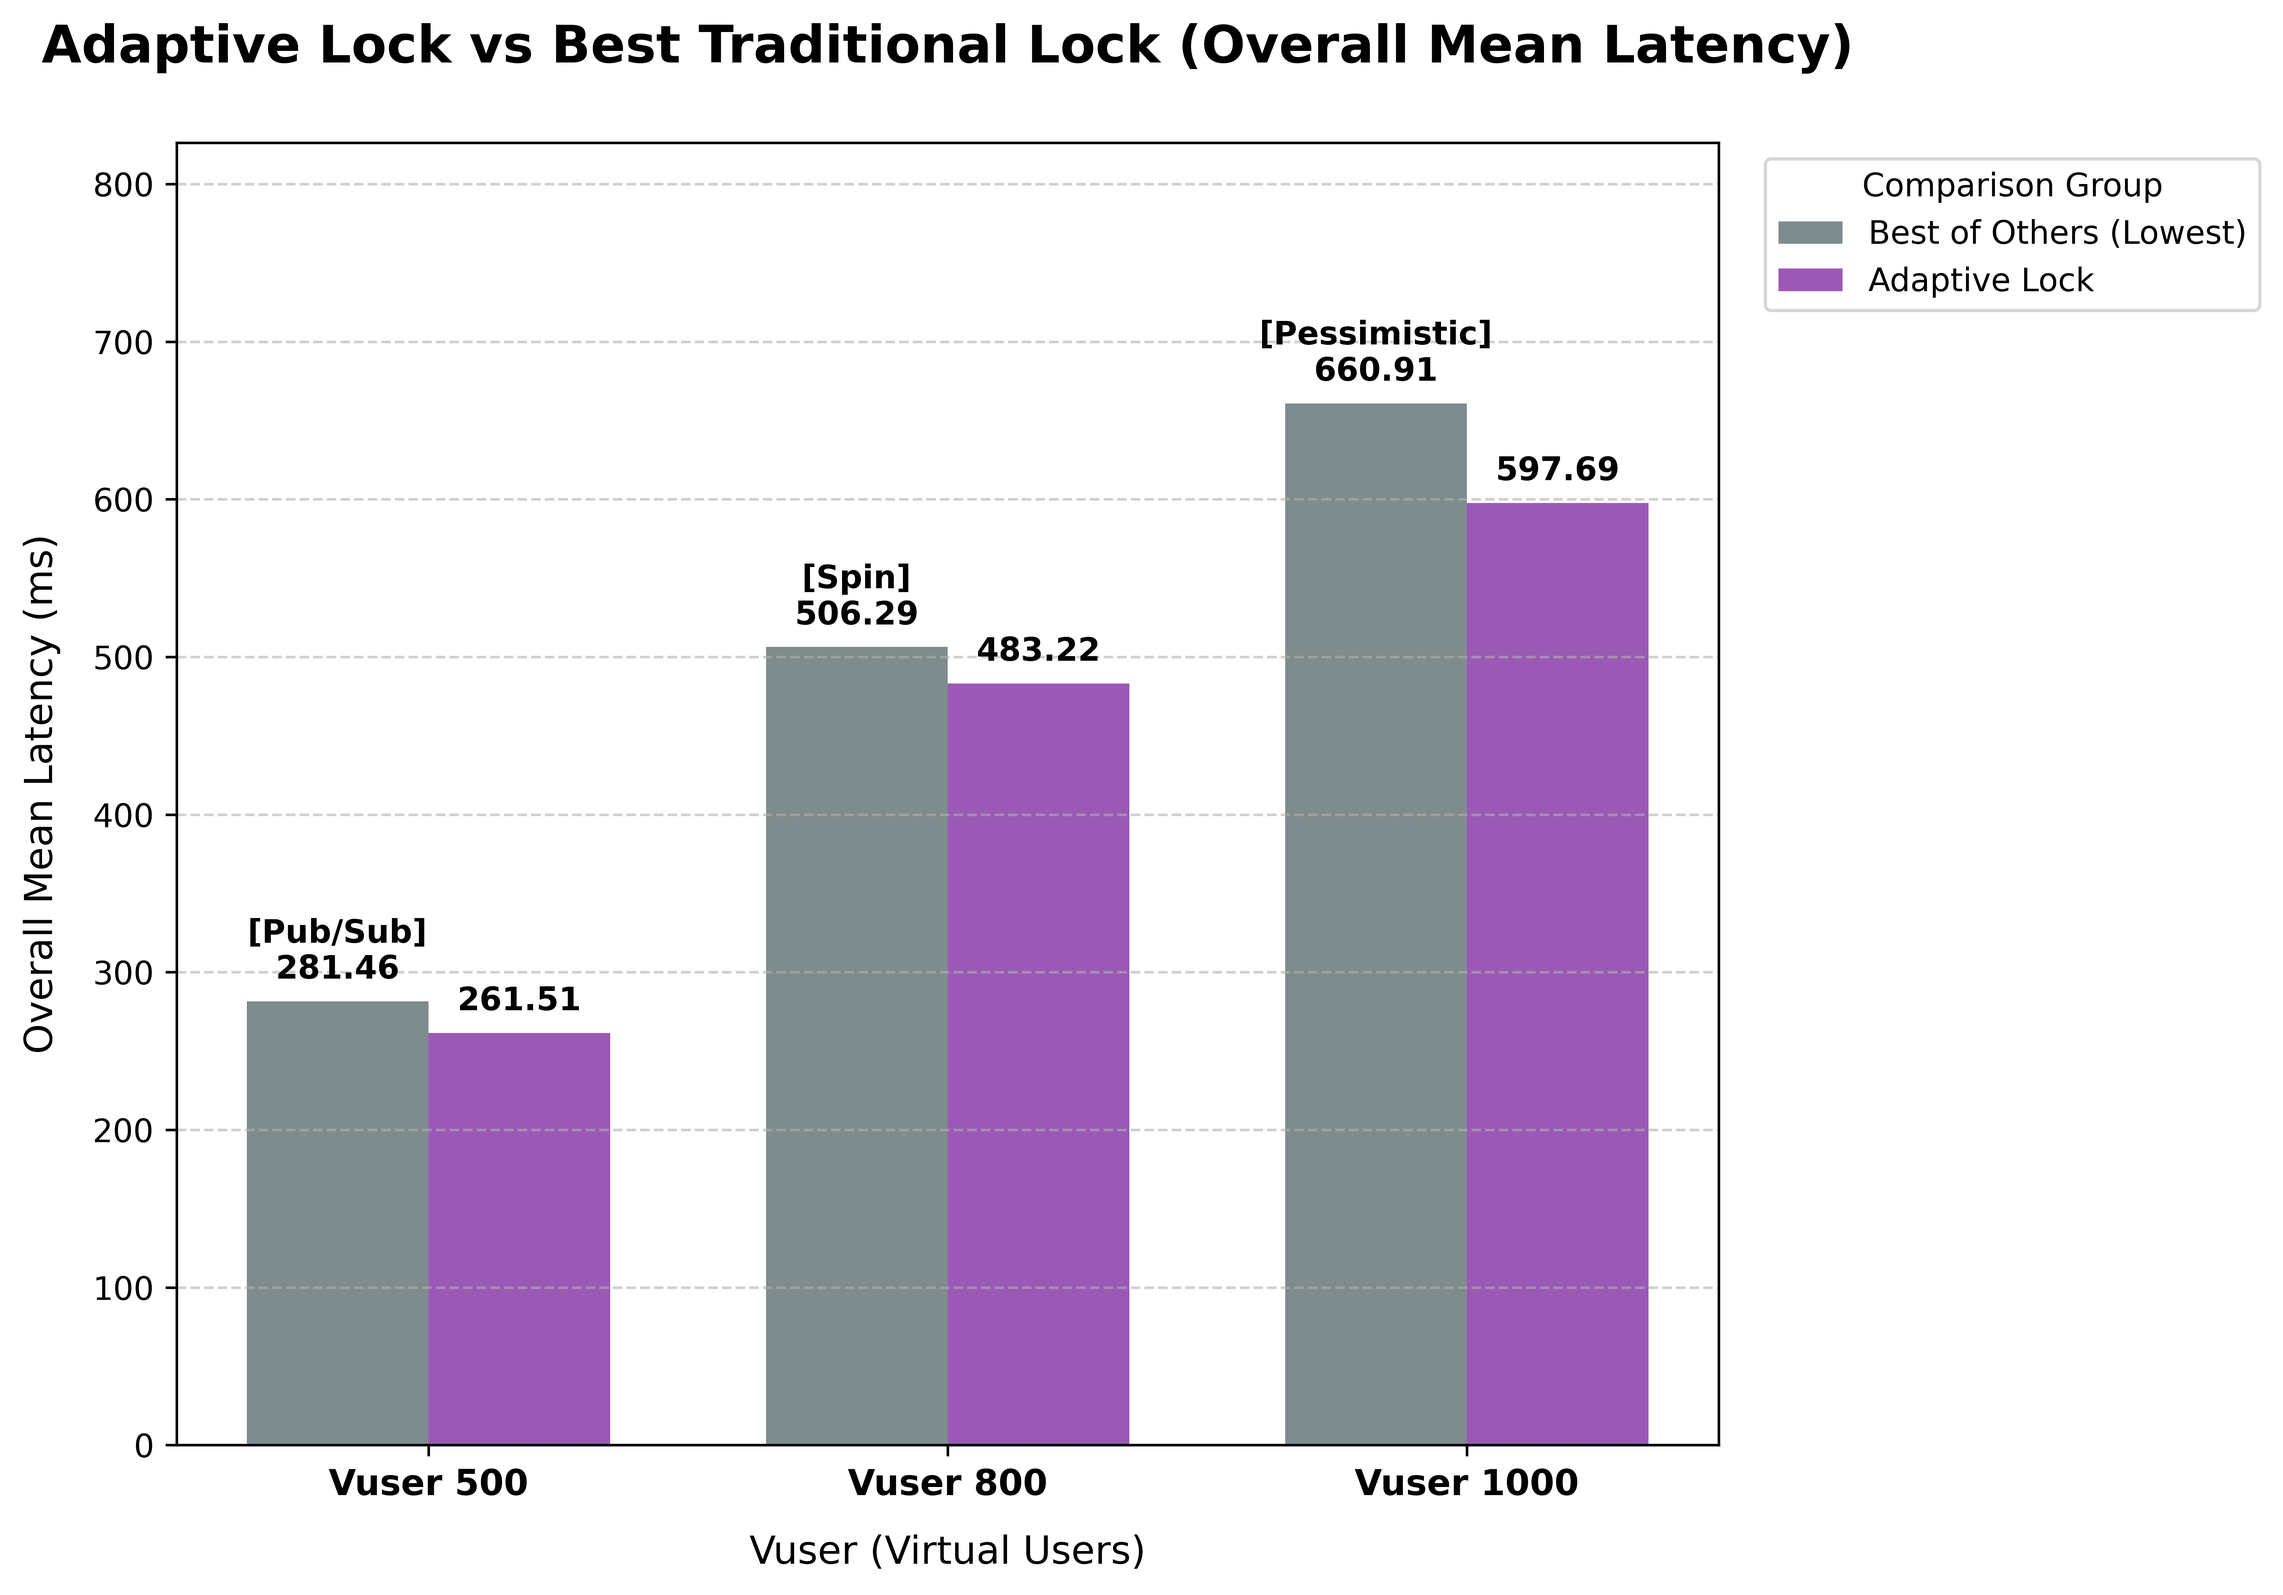
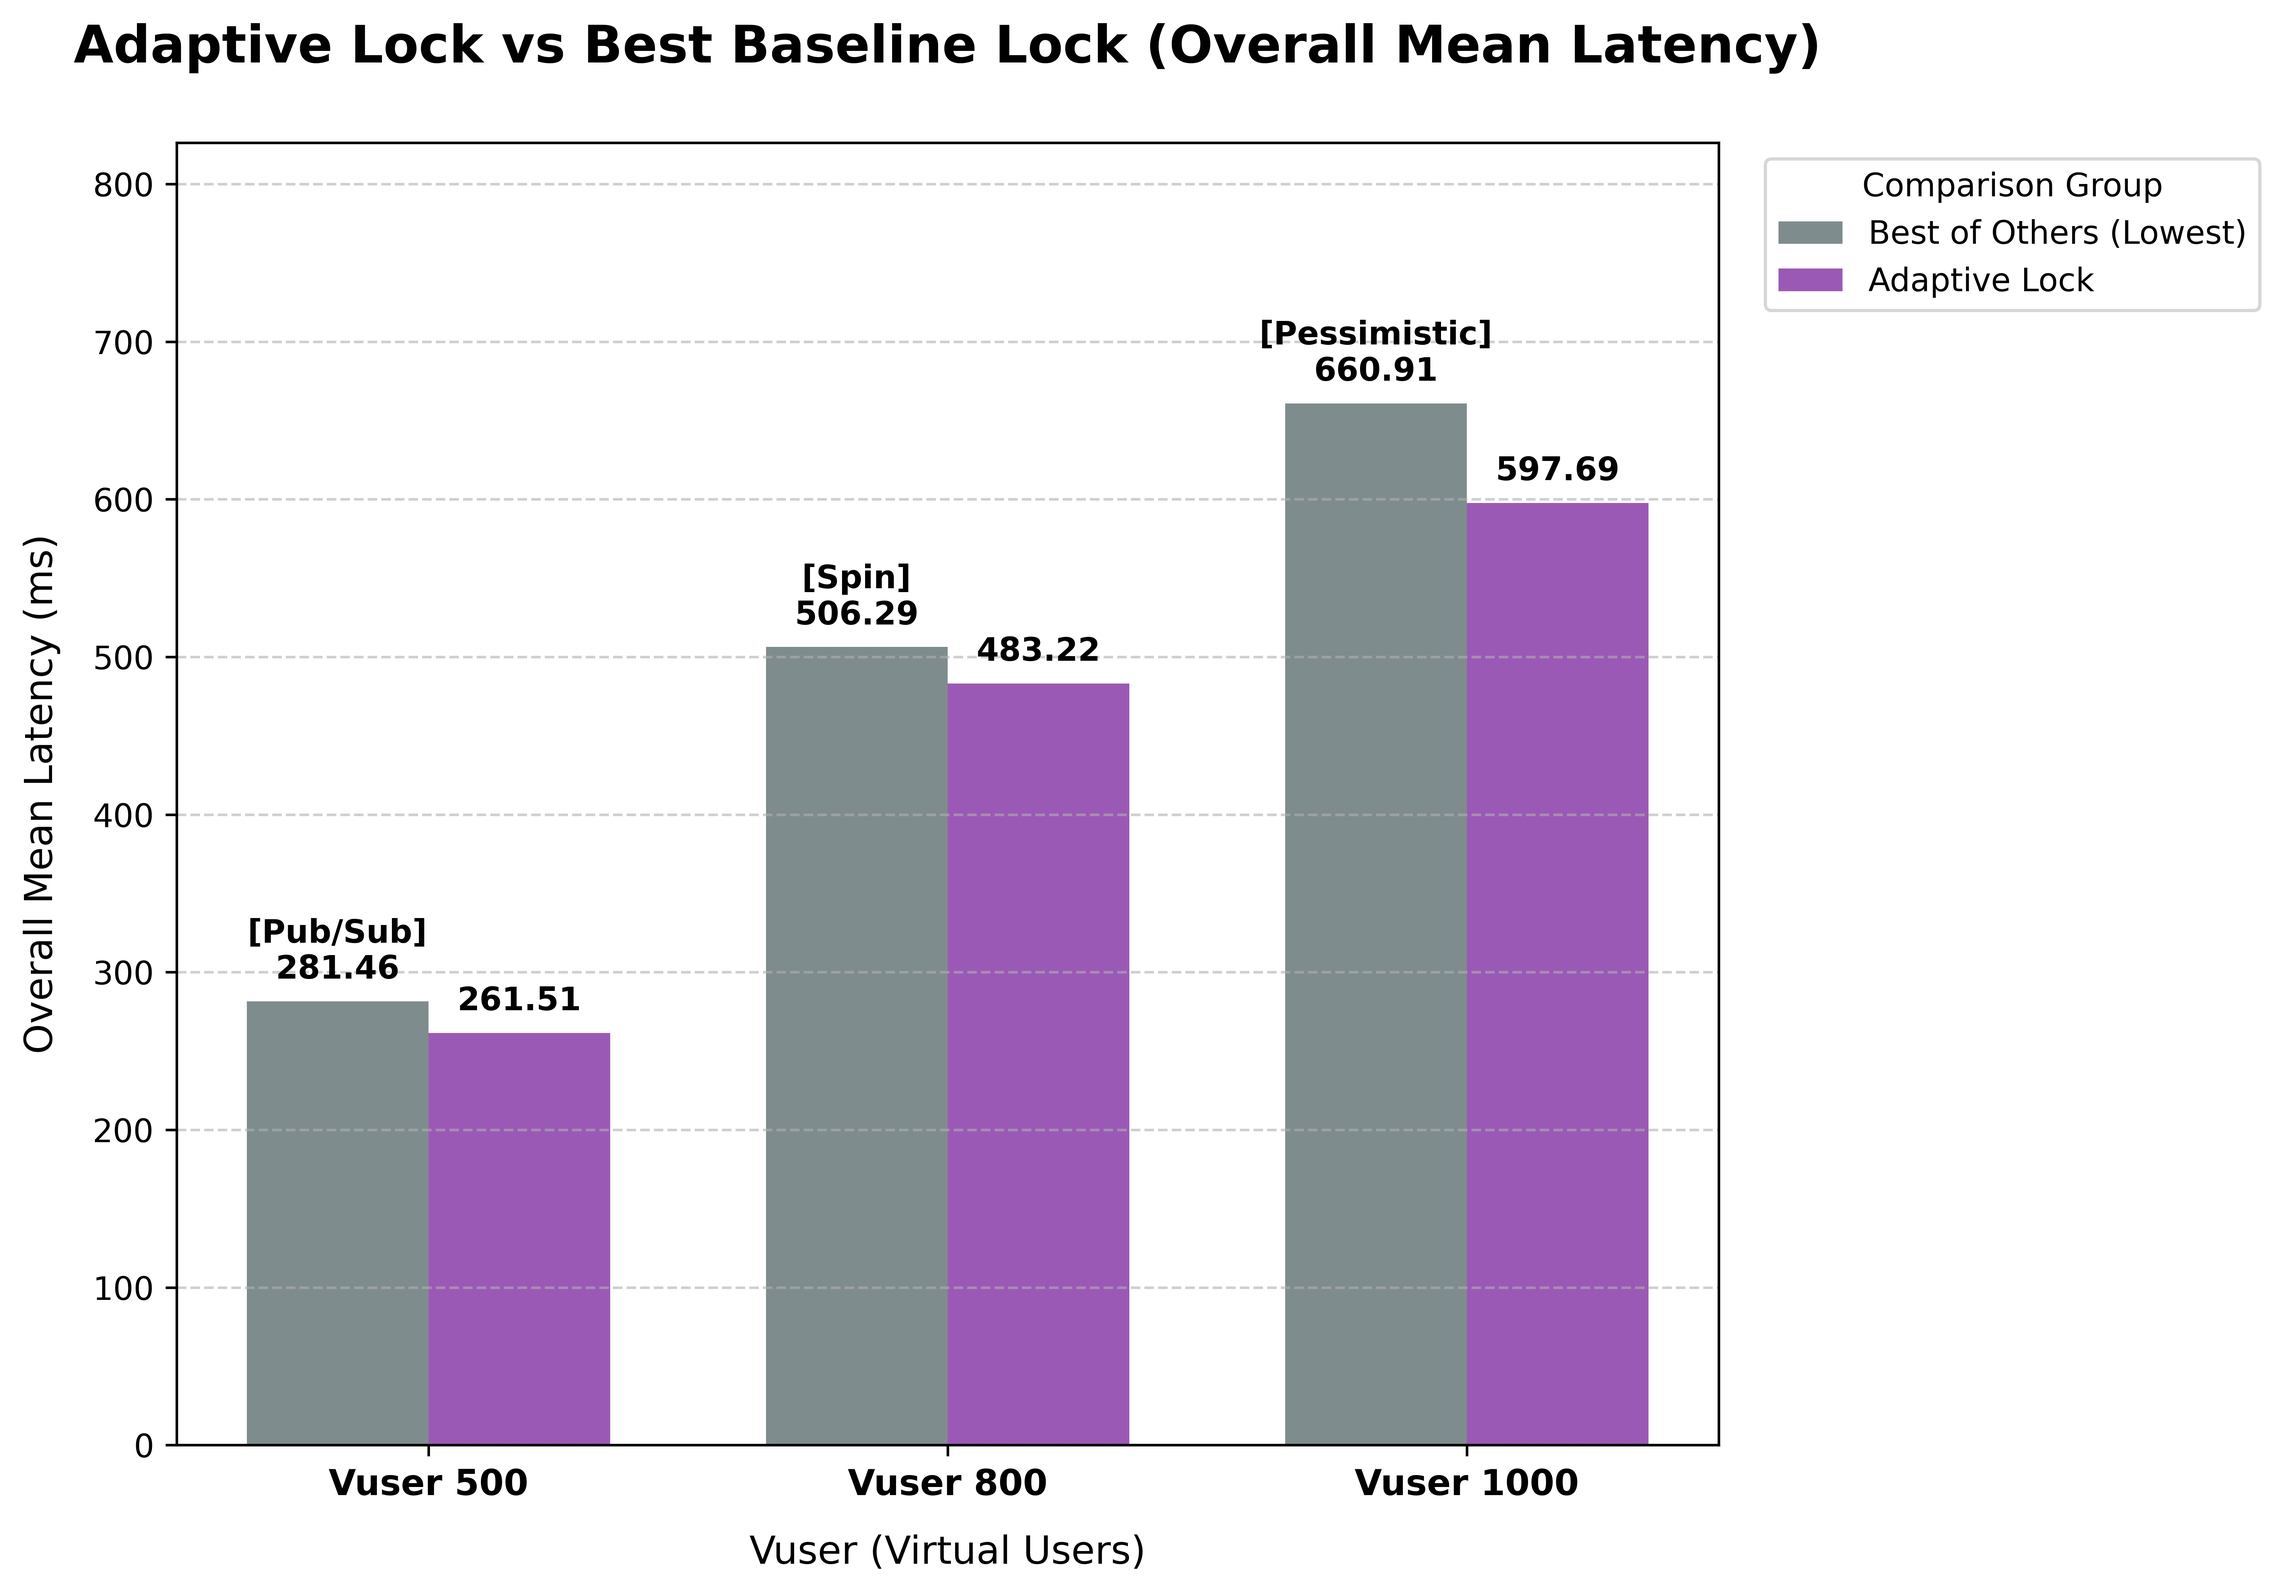
📝 docs(analysis): nGrinder Adaptive Lock V.S. Best Lock 그래프 이름 변경 #51

Changed region(s): [[0.0, 0.0, 0.8082, 0.0624]]

diff --git a/analysis/plot_latency_adaptive_vs_best.py b/analysis/plot_latency_adaptive_vs_best.py
@@ -102,7 +102,7 @@ def main():
     save_adaptive_vs_best_latency_chart(
         df,
         target_column='Overall Mean Latency',
-        title='Adaptive Lock vs Best Traditional Lock (Overall Mean Latency)',
+        title='Adaptive Lock vs Best Baseline Lock (Overall Mean Latency)',
         output_filepath='../data/figures/latency_mean_adaptive_vs_best.png'
     )
 
@@ -110,7 +110,7 @@ def main():
     save_adaptive_vs_best_latency_chart(
         df,
         target_column='Overall p95 Latency',
-        title='Adaptive Lock vs Best Traditional Lock (Overall p95 Latency)',
+        title='Adaptive Lock vs Best Baseline Lock (Overall p95 Latency)',
         output_filepath='../data/figures/latency_p95_adaptive_vs_best.png'
     )
 

diff --git a/analysis/plot_tps_adaptive_vs_best.py b/analysis/plot_tps_adaptive_vs_best.py
@@ -104,7 +104,7 @@ def main():
     save_adaptive_vs_best_chart(
         df,
         target_column='Overall Mean TPS',
-        title='Adaptive Lock vs Best Traditional Lock (Overall Mean TPS)',
+        title='Adaptive Lock vs Best Baseline Lock (Overall Mean TPS)',
         output_filepath='../data/figures/tps_mean_adaptive_vs_best.png'
     )
 
@@ -112,7 +112,7 @@ def main():
     save_adaptive_vs_best_chart(
         df,
         target_column='Average Peak TPS',
-        title='Adaptive Lock vs Best Traditional Lock (Average Peak TPS)',
+        title='Adaptive Lock vs Best Baseline Lock (Average Peak TPS)',
         output_filepath='../data/figures/tps_peak_adaptive_vs_best.png'
     )
 

diff --git a/analysis/plot_stability_adaptive_vs_best.py b/analysis/plot_stability_adaptive_vs_best.py
@@ -102,7 +102,7 @@ def main():
     save_adaptive_vs_best_stability_chart(
         df,
         target_column='2-Sigma',
-        title='Adaptive Lock vs Most Stable Traditional Lock (2-Sigma Range)',
+        title='Adaptive Lock vs Most Stable Baseline Lock (2-Sigma Range)',
         output_filepath='../data/figures/stability_adaptive_vs_best.png'
     )
 
